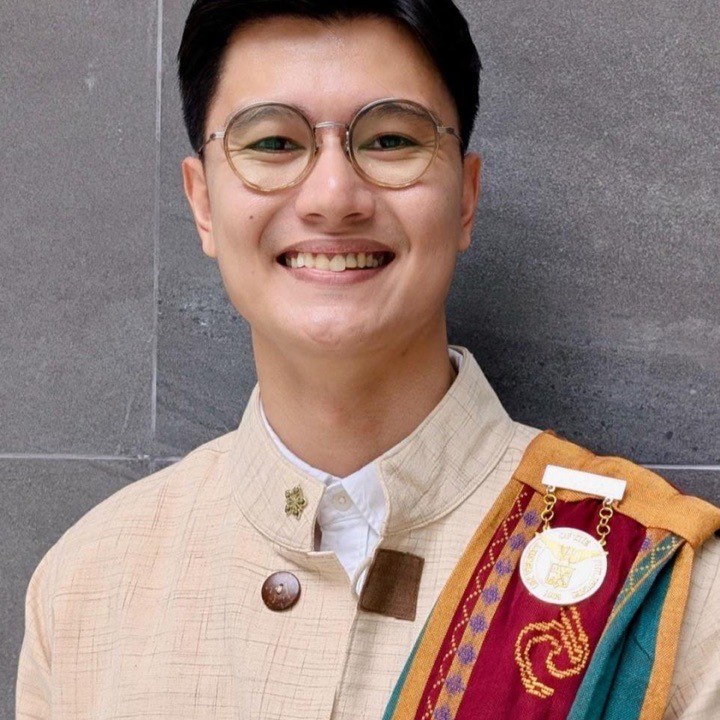
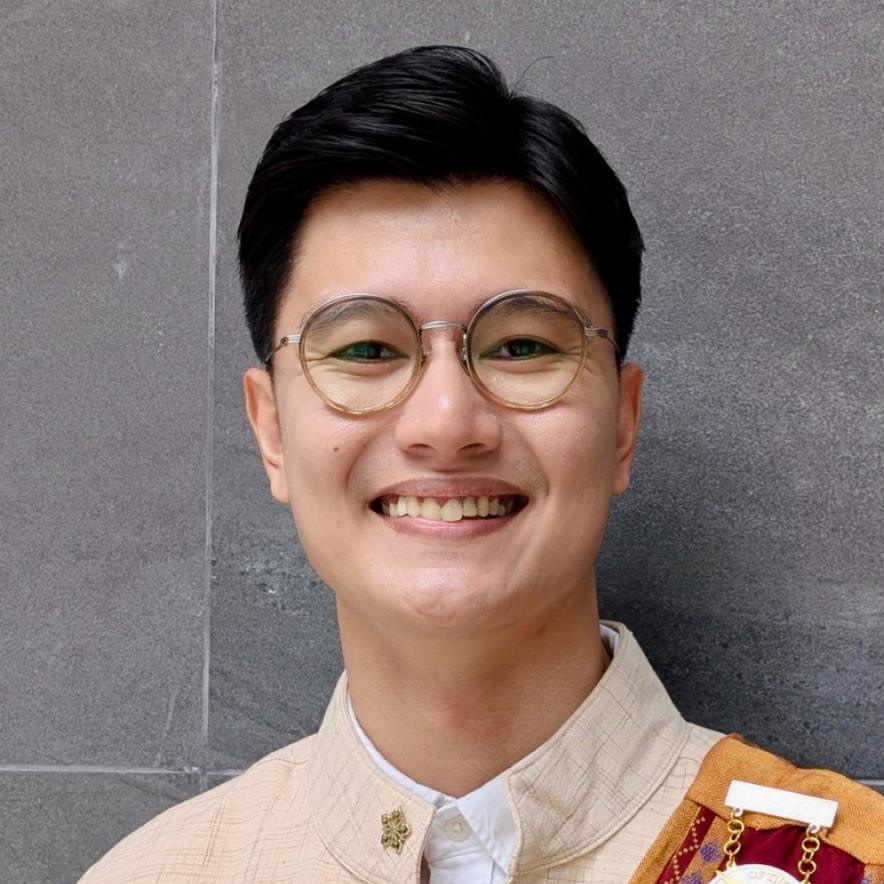
Update Pugoy portrait and DEPDev affiliations

diff --git a/dev/index.html b/dev/index.html
@@ -437,7 +437,7 @@ const SPEAKERS = [
   { name: "Ralph Camelo Mariano", position: "OIC-Assistant Director", org: "Department of Economy, Planning, and Development (DEPDev)", role: "Panelist", sessionId: "breakout-1-2", wave: "wave1", photo: "assets/speakers/2026/ralph-camelo-mariano.jpg", objectPosition: "50% 50%", photoScale: "1.00" },
   { name: "Pita S. Picpican", position: "Assistant Regional Director for Technical Services", org: "Department of Science and Technology – Cordillera Administrative Region (DOST-CAR)", role: "Panelist", sessionId: "breakout-1-2", wave: "wave1", photo: "assets/speakers/2026/pita-s-picpican.jpg", objectPosition: "50% 50%", photoScale: "1.00" },
   { name: "Francis Camarao", position: "Information Technology Officer II", org: "Local Government Unit (LGU) of Baguio City", role: "Presenter and panelist", sessionId: "breakout-1-2", wave: "wave1", photo: "assets/speakers/2026/francis-camarao.jpg", objectPosition: "50% 50%", photoScale: "1.00" },
-  { name: "Mary Ash Day O. Malimit", position: "OIC-Assistant Director", org: "DEPDev Infrastructure Staff (IS)", role: "Moderator", sessionId: "breakout-1-3", wave: "wave1", photo: "assets/speakers/2026/mary-ash-day-o-malimit.webp", objectPosition: "50% 50%", photoScale: "1.00" },
+  { name: "Mary Ash Day O. Malimit", position: "OIC-Assistant Director", org: "Department of Economy, Planning, and Development (DEPDev)", role: "Moderator", sessionId: "breakout-1-3", wave: "wave1", photo: "assets/speakers/2026/mary-ash-day-o-malimit.webp", objectPosition: "50% 50%", photoScale: "1.00" },
   { name: "Sonia L. Asilo", position: "Supervising Science Research Specialist", org: "Philippine Rice Research Institute (PhilRice)", role: "Panelist", sessionId: "breakout-1-3", wave: "wave1", photo: "assets/speakers/2026/sonia-l-asilo.jpg", objectPosition: "50% 50%", photoScale: "1.00" },
   { name: "Noel Jerome B. Borlongan", position: "Senior Science Research Specialist", org: "Philippine Space Agency (PhilSA)", role: "Presenter and panelist", sessionId: "breakout-1-3", wave: "wave1", photo: "", objectPosition: "50% 50%" },
   { name: "Karl Robert L. Jandoc", position: "Professor, School of Economics", org: "University of the Philippines", role: "Moderator", sessionId: "breakout-2-1", wave: "wave2", photo: "assets/speakers/2026/karl-robert-l-jandoc.webp", objectPosition: "50% 50%", photoScale: "1.00" },
@@ -453,7 +453,7 @@ const SPEAKERS = [
   { name: "Lorraine Goyena", position: "Enterprise Architect", org: "Pintig Lab, United Nations Development Programme (UNDP)", role: "Presenter and panelist", sessionId: "breakout-2-3", wave: "wave2", photo: "assets/speakers/2026/lorraine-goyena.webp", objectPosition: "50% 50%", photoScale: "1.00" },
   { name: "David Joseph Emmanuel B. Yap Jr.", position: "Executive Director", org: "Congressional Policy and Budget Research Department (CPBRD)", role: "Panelist", sessionId: "breakout-2-3", wave: "wave2", photo: "assets/speakers/2026/david-joseph-emmanuel-b-yap-jr.jpg", objectPosition: "50% 50%", photoScale: "1.00" },
   { name: "Ryan S. Lita", position: "Undersecretary and Chief of Staff", org: "Department of Budget and Management (DBM)", role: "Panelist", sessionId: "breakout-2-3", wave: "wave2", photo: "", objectPosition: "50% 50%" },
-  { name: "Yuko Lisette R. Domingo", position: "Chief Economic Development Specialist", org: "DEPDev PPG Social Development Staff", role: "Panelist", sessionId: "breakout-2-3", wave: "wave2", photo: "assets/speakers/2026/yuko-lisette-r-domingo.png", objectPosition: "50% 50%", photoScale: "1.00" },
+  { name: "Yuko Lisette R. Domingo", position: "Chief Economic Development Specialist", org: "Department of Economy, Planning, and Development (DEPDev)", role: "Panelist", sessionId: "breakout-2-3", wave: "wave2", photo: "assets/speakers/2026/yuko-lisette-r-domingo.png", objectPosition: "50% 50%", photoScale: "1.00" },
   { name: "Kerry Albright", position: "Advisor and Head of Evaluation Knowledge Management", org: "Independent Evaluation Department, Asian Development Bank (ADB)", role: "Presenter and panelist", sessionId: "breakout-2-3", wave: "wave2", photo: "assets/speakers/2026/kerry-albright.jpg", objectPosition: "50% 50%", photoScale: "1.00" }
 ];`
     );

diff --git a/index.html b/index.html
@@ -437,7 +437,7 @@ const SPEAKERS = [
   { name: "Ralph Camelo Mariano", position: "OIC-Assistant Director", org: "Department of Economy, Planning, and Development (DEPDev)", role: "Panelist", sessionId: "breakout-1-2", wave: "wave1", photo: "assets/speakers/2026/ralph-camelo-mariano.jpg", objectPosition: "50% 50%", photoScale: "1.00" },
   { name: "Pita S. Picpican", position: "Assistant Regional Director for Technical Services", org: "Department of Science and Technology – Cordillera Administrative Region (DOST-CAR)", role: "Panelist", sessionId: "breakout-1-2", wave: "wave1", photo: "assets/speakers/2026/pita-s-picpican.jpg", objectPosition: "50% 50%", photoScale: "1.00" },
   { name: "Francis Camarao", position: "Information Technology Officer II", org: "Local Government Unit (LGU) of Baguio City", role: "Presenter and panelist", sessionId: "breakout-1-2", wave: "wave1", photo: "assets/speakers/2026/francis-camarao.jpg", objectPosition: "50% 50%", photoScale: "1.00" },
-  { name: "Mary Ash Day O. Malimit", position: "OIC-Assistant Director", org: "DEPDev Infrastructure Staff (IS)", role: "Moderator", sessionId: "breakout-1-3", wave: "wave1", photo: "assets/speakers/2026/mary-ash-day-o-malimit.webp", objectPosition: "50% 50%", photoScale: "1.00" },
+  { name: "Mary Ash Day O. Malimit", position: "OIC-Assistant Director", org: "Department of Economy, Planning, and Development (DEPDev)", role: "Moderator", sessionId: "breakout-1-3", wave: "wave1", photo: "assets/speakers/2026/mary-ash-day-o-malimit.webp", objectPosition: "50% 50%", photoScale: "1.00" },
   { name: "Sonia L. Asilo", position: "Supervising Science Research Specialist", org: "Philippine Rice Research Institute (PhilRice)", role: "Panelist", sessionId: "breakout-1-3", wave: "wave1", photo: "assets/speakers/2026/sonia-l-asilo.jpg", objectPosition: "50% 50%", photoScale: "1.00" },
   { name: "Noel Jerome B. Borlongan", position: "Senior Science Research Specialist", org: "Philippine Space Agency (PhilSA)", role: "Presenter and panelist", sessionId: "breakout-1-3", wave: "wave1", photo: "", objectPosition: "50% 50%" },
   { name: "Karl Robert L. Jandoc", position: "Professor, School of Economics", org: "University of the Philippines", role: "Moderator", sessionId: "breakout-2-1", wave: "wave2", photo: "assets/speakers/2026/karl-robert-l-jandoc.webp", objectPosition: "50% 50%", photoScale: "1.00" },
@@ -453,7 +453,7 @@ const SPEAKERS = [
   { name: "Lorraine Goyena", position: "Enterprise Architect", org: "Pintig Lab, United Nations Development Programme (UNDP)", role: "Presenter and panelist", sessionId: "breakout-2-3", wave: "wave2", photo: "assets/speakers/2026/lorraine-goyena.webp", objectPosition: "50% 50%", photoScale: "1.00" },
   { name: "David Joseph Emmanuel B. Yap Jr.", position: "Executive Director", org: "Congressional Policy and Budget Research Department (CPBRD)", role: "Panelist", sessionId: "breakout-2-3", wave: "wave2", photo: "assets/speakers/2026/david-joseph-emmanuel-b-yap-jr.jpg", objectPosition: "50% 50%", photoScale: "1.00" },
   { name: "Ryan S. Lita", position: "Undersecretary and Chief of Staff", org: "Department of Budget and Management (DBM)", role: "Panelist", sessionId: "breakout-2-3", wave: "wave2", photo: "", objectPosition: "50% 50%" },
-  { name: "Yuko Lisette R. Domingo", position: "Chief Economic Development Specialist", org: "DEPDev PPG Social Development Staff", role: "Panelist", sessionId: "breakout-2-3", wave: "wave2", photo: "assets/speakers/2026/yuko-lisette-r-domingo.png", objectPosition: "50% 50%", photoScale: "1.00" },
+  { name: "Yuko Lisette R. Domingo", position: "Chief Economic Development Specialist", org: "Department of Economy, Planning, and Development (DEPDev)", role: "Panelist", sessionId: "breakout-2-3", wave: "wave2", photo: "assets/speakers/2026/yuko-lisette-r-domingo.png", objectPosition: "50% 50%", photoScale: "1.00" },
   { name: "Kerry Albright", position: "Advisor and Head of Evaluation Knowledge Management", org: "Independent Evaluation Department, Asian Development Bank (ADB)", role: "Presenter and panelist", sessionId: "breakout-2-3", wave: "wave2", photo: "assets/speakers/2026/kerry-albright.jpg", objectPosition: "50% 50%", photoScale: "1.00" }
 ];`
     );
